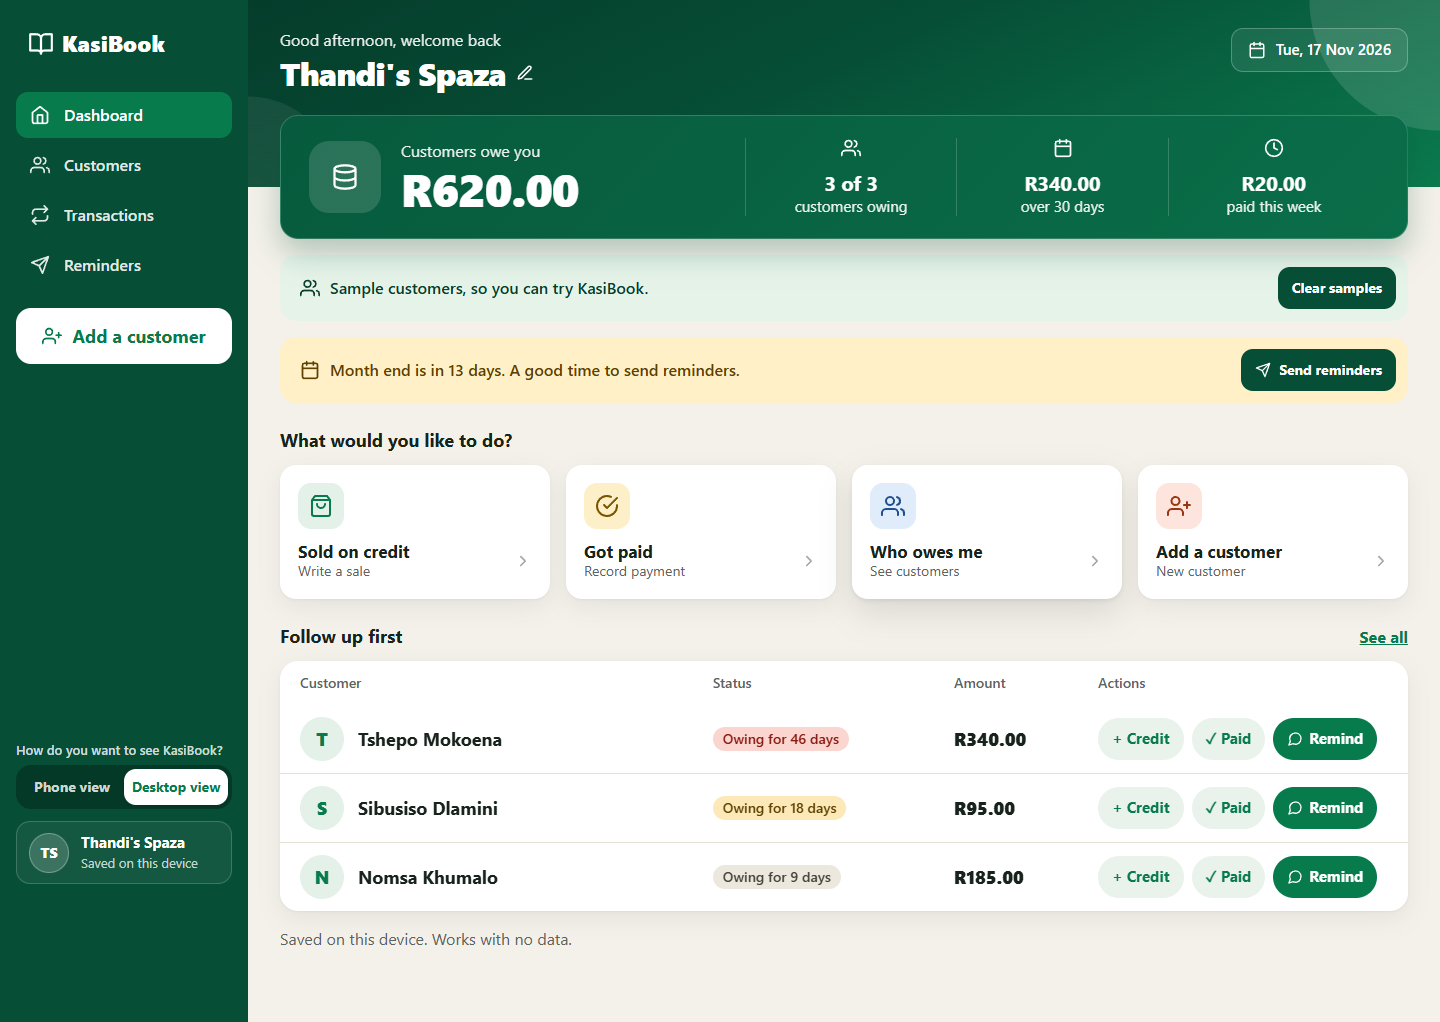
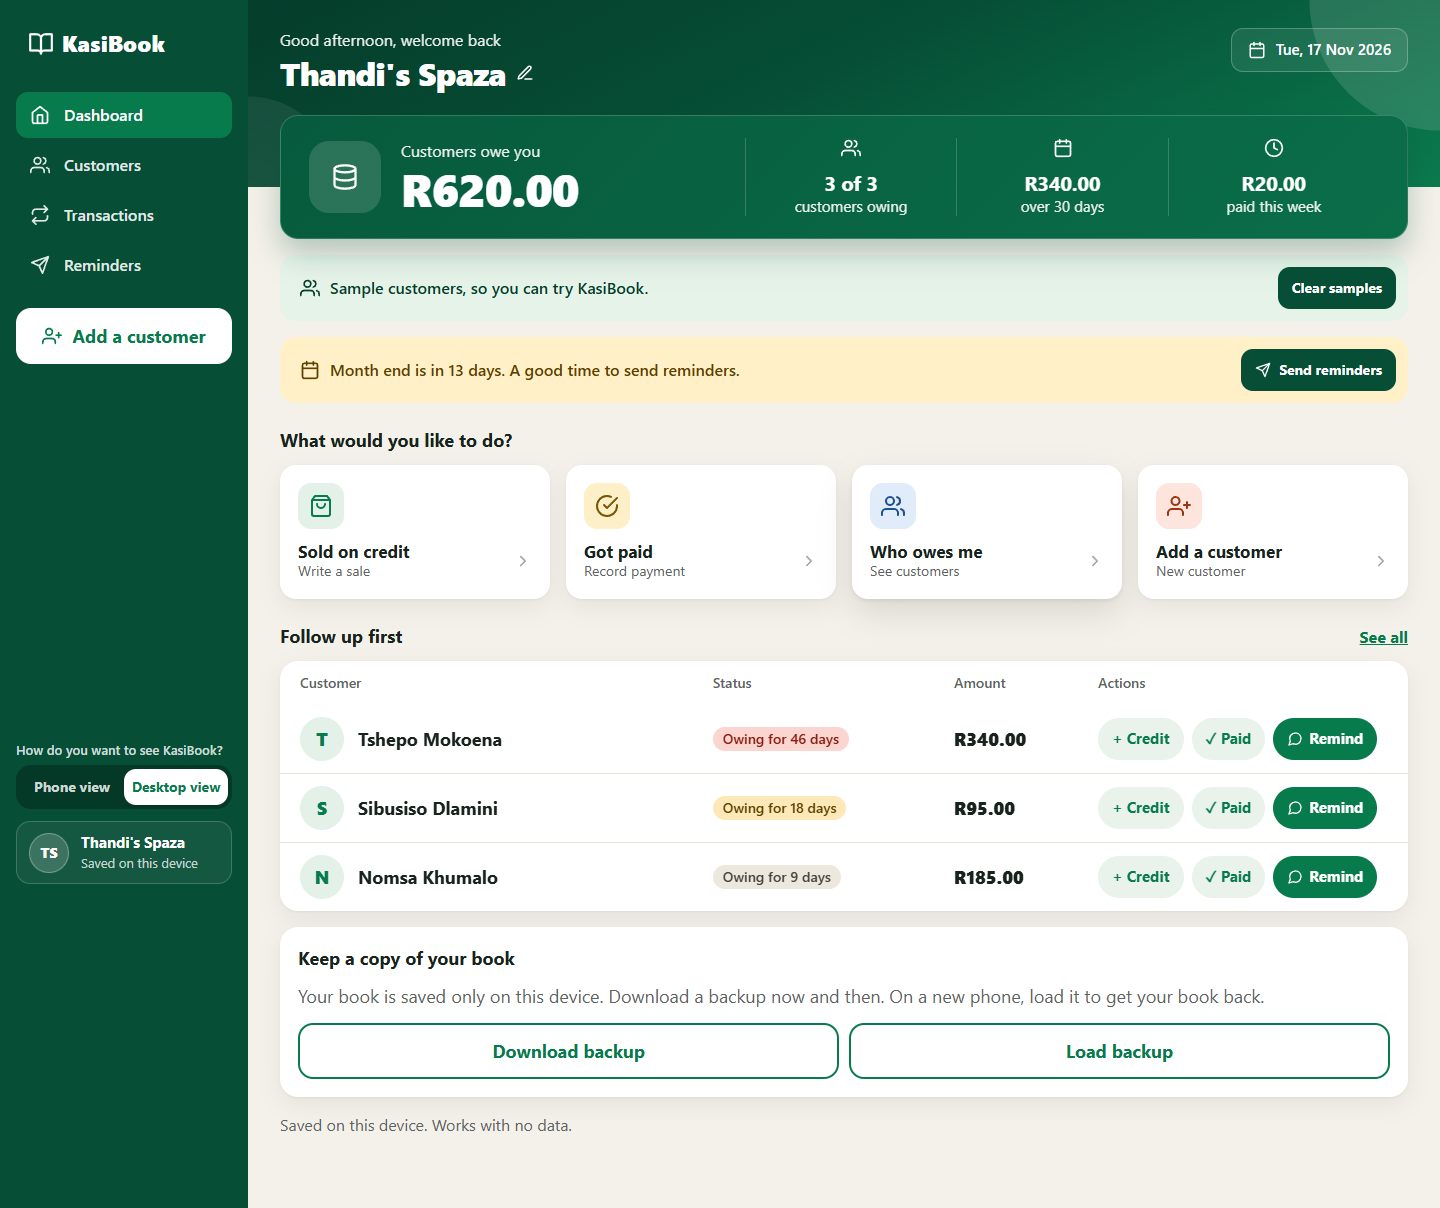
Add backup, paper-book balances, own prices and today's totals

Changed region(s): [[0.0, 0.0303, 1.0, 0.9403], [0.0, 0.6067, 0.1562, 0.7886], [0.0, 0.819, 0.125, 0.8493]]

diff --git a/index.html b/index.html
@@ -54,6 +54,7 @@ button, a { -webkit-tap-highlight-color: transparent; }
 .me { flex: none; display: grid; place-items: center; width: 40px; height: 40px; border: 1px solid rgba(255, 255, 255, .3); border-radius: 50%; background: rgba(255, 255, 255, .16); color: #fff; font-size: 14px; font-weight: 800; cursor: pointer; }
 .date { display: none; }
 .hero { margin-top: 14px; padding: 16px; border: 1px solid rgba(255, 255, 255, .16); border-radius: 18px; background: rgba(3, 40, 28, .42); }
+.hero > .kpis:first-child { margin: 0; padding: 0; border: 0; }
 .hero-main { display: flex; align-items: center; gap: 14px; }
 .hero-main .total { margin: 0; font-size: 38px; }
 .coin { flex: none; display: grid; place-items: center; width: 52px; height: 52px; border-radius: 16px; background: rgba(255, 255, 255, .14); }
@@ -213,6 +214,7 @@ body.wide { padding: 0; background: var(--bg); }
 .main .coin { width: 72px; height: 72px; border-radius: 20px; }
 .main .kpis { flex: 2; margin: 0; padding: 0; border: 0; }
 .main .kpis p { border-left: 1px solid rgba(255, 255, 255, .18); }
+.main .hero > .kpis:first-child p:first-child { border-left: 0; }
 .main .kpis strong { margin-top: 4px; font-size: 20px; }
 .main .kpis span { font-size: 15px; }
 .main .banner { padding: 12px 12px 12px 20px; font-size: 16px; }
@@ -301,6 +303,16 @@ const paidSince = (customers, days, now = Date.now()) =>
 // The last three named items a customer bought, newest first.
 const recentItems = (customer) => customer.entries.filter((entry) => entry.n).slice(-3).reverse().map((entry) => entry.n).join(" · ");
 
+// A day as "2026-11-17", the format date boxes use, in local time.
+const isoDay = (t = Date.now()) => new Date(t).toLocaleDateString("en-CA");
+
+// "2026-11-03" from a date box -> midday that day. Must be a real date, from 2000 on, and not in the future.
+function parseDay(text, now = Date.now()) {
+  const m = /^(\d{4})-(\d{2})-(\d{2})$/.exec(text);
+  const t = m && new Date(+m[1], m[2] - 1, +m[3], 12).getTime();
+  return m && new Date(t).getDate() === +m[3] && +m[1] >= 2000 && t - DAY / 2 <= now ? Math.min(t, now) : null;
+}
+
 const daysToMonthEnd = (now = new Date()) => new Date(now.getFullYear(), now.getMonth() + 1, 0).getDate() - now.getDate();
 
 // Payments settle the oldest sales first. Returns the age of the oldest unpaid sale.
@@ -368,6 +380,21 @@ function load() {
   return null;
 }
 
+// A backup file comes from outside the app, so every field is checked and capped, like a statement link.
+function checkBook(data) {
+  if (!data || typeof data.shop !== "string" || !Array.isArray(data.customers)) return null;
+  const ids = new Set();
+  const customers = data.customers.filter((c) => c && typeof c.name === "string" && c.name.trim() && Array.isArray(c.entries)).map((c) => {
+    const id = typeof c.id === "string" && c.id && !ids.has(c.id) ? c.id.slice(0, 40) : newId();
+    ids.add(id);
+    return { id, name: c.name.slice(0, 40), phone: typeof c.phone === "string" ? c.phone.slice(0, 20) : "", ...(c.sample === true && { sample: true }),
+      entries: c.entries.filter((e) => e && Number.isFinite(e.t) && Number.isInteger(e.c) && e.c !== 0)
+        .map((e) => ({ t: e.t, c: clampCents(e.c), ...(typeof e.n === "string" && e.n && { n: e.n.slice(0, 40) }) })) };
+  });
+  const prices = ITEMS.filter(([, name]) => Number.isInteger(data.prices?.[name]) && data.prices[name] > 0 && data.prices[name] <= MAX_CENTS);
+  return { shop: data.shop.slice(0, 40) || "My Spaza", customers, ...(prices.length && { prices: Object.fromEntries(prices.map(([, name]) => [name, data.prices[name]])) }) };
+}
+
 function save() {
   try {
     localStorage.setItem(STORE, JSON.stringify(book));
@@ -418,6 +445,8 @@ const ICONS = {
 
 // One-tap items. The prices are examples only: every shop sets its own, and any amount can be typed.
 const ITEMS = [["🍞", "Bread", 1800], ["🌽", "Maize meal", 4200], ["🥛", "Milk", 3400], ["📱", "Airtime", 2000], ["⚡", "Electricity", 5000], ["🛢", "Cooking oil", 3800]];
+// The shop's own price for an item, or the example price until it sets one.
+const price = (name, cents) => book.prices?.[name] ?? cents;
 
 function icon(name, size = 24) {
   const svg = document.createElementNS("http://www.w3.org/2000/svg", "svg");
@@ -490,6 +519,9 @@ function toast(text, undo) {
   clearTimeout(toastTimer);
   toastTimer = setTimeout(() => { box.hidden = true; }, 7000);
 }
+
+// One of the small numbers in the green money card.
+const kpi = (iconName, value, label) => el("p", {}, icon(iconName, 20), el("strong", {}, value), el("span", {}, label));
 
 const dateText = (t) => new Date(t).toLocaleDateString("en-ZA", { day: "numeric", month: "short", year: "numeric" });
 
@@ -579,18 +611,55 @@ function customerForm(customer) {
   openForm(customer ? "Change customer" : "Add a customer", [
     { id: "customer-name", label: "Name", value: customer?.name, attrs: { maxlength: 40 } },
     { id: "customer-phone", label: "WhatsApp number (optional)", value: customer?.phone, attrs: { inputmode: "tel", placeholder: "082 123 4567" } },
-  ], (name, phone) => {
+    // A new customer may already owe money in the paper book. Only asked when adding.
+    ...(customer ? [] : [
+      { id: "customer-owes", label: "Already owes you? (from your paper book)", attrs: { inputmode: "decimal", placeholder: "For example 300" } },
+      { id: "customer-since", label: "Owing since", value: isoDay(), attrs: { type: "date", max: isoDay() } }]),
+  ], (name, phone, owes, since) => {
     if (!name) return "Please type the customer's name.";
     if (phone && !waNumber(phone)) return "Use a South African cell number, like 082 123 4567.";
+    const opening = owes ? parseCents(owes) : 0;
+    if (opening === null) return "Type what they already owe in rands, for example 300.";
+    const t = opening && parseDay(since);
+    if (opening && !t) return "Pick the day they started owing. It cannot be in the future.";
     if (customer) Object.assign(customer, { name, phone, sample: false });
     else {
-      const added = { id: newId(), name, phone, entries: [] };
+      const added = { id: newId(), name, phone, entries: opening ? [{ t, c: opening, n: "From paper book" }] : [] };
       book.customers.push(added);
       mode = "sale";
       location.hash = "c=" + added.id;
     }
     save();
   });
+}
+
+function priceForm() {
+  openForm("Your prices", ITEMS.map(([emoji, name, cents], i) => ({ id: "price-" + i, label: `${emoji} ${name} (rands)`, value: String(price(name, cents) / 100), attrs: { inputmode: "decimal" } })), (...values) => {
+    const cents = values.map(parseCents);
+    const bad = cents.indexOf(null);
+    if (bad >= 0) return `Type a price for ${ITEMS[bad][1]}, for example 18.50`;
+    book.prices = Object.fromEntries(ITEMS.map(([, name], i) => [name, cents[i]]));
+    save();
+  });
+}
+
+function downloadBackup() {
+  const url = URL.createObjectURL(new Blob([JSON.stringify(book)], { type: "application/json" }));
+  el("a", { href: url, download: `kasibook-backup-${isoDay()}.json` }).click();
+  setTimeout(() => URL.revokeObjectURL(url), 1000);
+  toast("Backup saved in your Downloads. Send it to yourself on WhatsApp to keep it safe.");
+}
+
+async function loadBackup(file) {
+  let loaded = null;
+  try { if (file.size < 5e6) loaded = checkBook(JSON.parse(await file.text())); } catch { /* not a JSON file: said below */ }
+  if (!loaded) return toast("That file is not a KasiBook backup.");
+  if (!confirm(`Replace the book on this device with the backup of ${loaded.shop} (${loaded.customers.length} customers)?`)) return;
+  const before = book;
+  book = loaded;
+  save();
+  render();
+  toast("Backup loaded", () => { book = before; save(); render(); });
 }
 
 function record(customer, cents, error, item) {
@@ -676,7 +745,7 @@ function homeScreen() {
   const followUp = [...owing].sort((a, b) => daysOwing(b) - daysOwing(a)).slice(0, 3);
   const left = daysToMonthEnd();
   const hour = new Date().getHours();
-  const kpi = (iconName, value, label) => el("p", {}, icon(iconName, 20), el("strong", {}, value), el("span", {}, label));
+  const file = el("input", { type: "file", accept: ".json,application/json", hidden: true, onchange: () => file.files[0] && loadBackup(file.files[0]) });
   const tile = (target, iconName, tone, title, text) =>
     el(typeof target === "string" ? "a" : "button", typeof target === "string" ? { class: "tile", href: target } : { class: "tile", onclick: target },
       el("span", { class: "bubble " + tone }, icon(iconName)),
@@ -714,6 +783,13 @@ function homeScreen() {
       el("div", { class: "section" }, el("h2", {}, "Follow up first"), el("a", { href: "#list" }, "See all")),
       el("ul", { class: "list compact" }, tableHead(), followUp.map((customer) => customerRow(customer)))],
     book.customers.length === 0 && emptyState("Your book is empty", "Start by adding your first customer. Then record what they buy on credit.", addButton("Add your first customer")),
+    el("section", { class: "card" },
+      el("h2", {}, "Keep a copy of your book"),
+      el("p", { class: "empty", style: "margin-bottom:14px" }, "Your book is saved only on this device. Download a backup now and then. On a new phone, load it to get your book back."),
+      el("div", { class: "pair" },
+        el("button", { class: "btn", onclick: downloadBackup }, "Download backup"),
+        el("button", { class: "btn", onclick: () => file.click() }, "Load backup")),
+      file),
     el("p", { class: "note", style: "margin-bottom:24px" }, "Saved on this device. Works with no data."));
 }
 
@@ -758,12 +834,19 @@ function listScreen(intent) {
 
 // Every sale and payment in the book, newest first.
 function transactionsScreen() {
-  const entries = book.customers.flatMap((customer) => customer.entries.map((entry) => ({ ...entry, customer }))).sort((a, b) => b.t - a.t).slice(0, 100);
+  const all = book.customers.flatMap((customer) => customer.entries.map((entry) => ({ ...entry, customer }))).sort((a, b) => b.t - a.t);
+  const entries = all.slice(0, 100);
+  const today = all.filter((entry) => entry.t >= new Date().setHours(0, 0, 0, 0));
+  const sum = (sign) => today.reduce((total, entry) => total + (Math.sign(entry.c) === sign ? Math.abs(entry.c) : 0), 0);
   return el("div", {},
     el("header", { class: "top" },
       el("a", { class: "back", href: "#" }, icon("left", 20), "Home"),
       el("h1", { tabindex: "-1" }, "Transactions"),
-      el("p", { class: "label", style: "margin-top:6px" }, "Every sale and payment, newest first.")),
+      el("p", { class: "label", style: "margin-top:6px" }, "Every sale and payment, newest first."),
+      el("div", { class: "hero" }, el("div", { class: "kpis" },
+        kpi("bag", rand(sum(1)), "sold on credit today"),
+        kpi("check", rand(sum(-1)), "paid back today"),
+        kpi("repeat", String(today.length), "entries today")))),
     entries.length
       ? el("section", { class: "card" }, el("ul", { class: "history" }, entries.map((entry) => el("li", {},
           el("span", {}, `${dateText(entry.t)} \u00b7 `, el("a", { href: "#c=" + entry.customer.id, style: "color:var(--green);font-weight:700" }, entry.customer.name), ` \u00b7 ${entry.c > 0 ? entry.n || "Bought on credit" : "Paid"}`),
@@ -798,10 +881,10 @@ function customerScreen(customer) {
     el("section", { class: "card" },
       el("div", { class: "tabs" }, tab("sale", "Sold on credit"), tab("paid", "Got paid", owed <= 0)),
       !paying && [
-        el("h2", {}, "What did they buy?"),
+        el("div", { class: "head" }, el("h2", {}, "What did they buy?"), el("button", { class: "link", onclick: priceForm }, "Change prices")),
         el("div", { class: "items" }, ITEMS.map(([emoji, name, cents]) =>
-          el("button", { class: "item", onclick: () => record(customer, cents, error, name) },
-            el("span", { "aria-hidden": "true" }, emoji), name, el("small", {}, "R" + cents / 100))))],
+          el("button", { class: "item", onclick: () => record(customer, price(name, cents), error, name) },
+            el("span", { "aria-hidden": "true" }, emoji), name, el("small", {}, rand(price(name, cents))))))],
       el("h2", {}, paying ? "How much did they pay?" : "Or tap an amount"),
       el("div", { class: "chips" }, [10, 20, 50, 100].map((rands) =>
         el("button", { class: "chip", onclick: () => record(customer, sign * rands * 100, error) }, (paying ? "R" : "+R") + rands))),
@@ -894,6 +977,9 @@ if (location.search === "?test") {
   console.assert(paidSince([sipho], 7, 12 * DAY) === 5000 && paidSince([sipho], 7, 30 * DAY) === 0, "paidSince");
   console.assert(recentItems({ entries: [{ c: 1, n: "Bread" }, { c: 1 }, { c: 1, n: "Milk" }] }) === "Milk · Bread", "recentItems");
   console.assert(daysToMonthEnd(new Date(2026, 10, 17)) === 13, "daysToMonthEnd");
+  console.assert(parseDay("2026-11-03", Date.parse("2026-11-17")) === new Date(2026, 10, 3, 12).getTime() && parseDay("2026-02-31") === null && parseDay("2999-01-01") === null && parseDay("") === null, "parseDay");
+  const restored = checkBook({ shop: "X", customers: [{ id: "a", name: "Sipho", entries: [{ t: 1, c: 5e12 }, { t: "bad", c: 1 }] }, { id: "a", name: "Lindi", entries: [] }, { name: 7 }], prices: { Bread: 2000, Milk: -1 } });
+  console.assert(checkBook({}) === null && restored.customers.length === 2 && restored.customers[0].entries.length === 1 && restored.customers[0].entries[0].c === MAX_CENTS && restored.customers[1].id !== "a" && restored.prices.Bread === 2000 && !("Milk" in restored.prices), "checkBook");
   console.log("KasiBook self-check finished");
 }
 </script>

diff --git a/README.md b/README.md
@@ -50,7 +50,7 @@ Tap **Clear samples** at the top of the home screen when you are ready to start 
 - **Statements with no server.** A customer's statement is packed into the link itself. Opening the link unpacks it on the customer's phone.
 - **WhatsApp with no API.** Reminders use an ordinary `wa.me` link. Local numbers such as `082 123 4567` are converted to the international format WhatsApp needs.
 - **Money is exact.** Amounts are stored as whole cents, so totals never drift.
-- **Example prices.** The prices on the item buttons are examples for the demo. Every shop charges its own prices, and any amount can be typed.
+- **Example prices.** The prices on the item buttons are examples for the demo. A shop sets its own with "Change prices", and any amount can be typed.
 
 | File | Job |
 |---|---|
@@ -72,7 +72,7 @@ Tap **Clear samples** at the top of the home screen when you are ready to start 
 
 ## Limits and what is next
 
-- The book lives on one phone. A backup and a move-to-new-phone option come next.
+- The book lives on one phone. "Download backup" saves a copy as a file, and "Load backup" brings it back on a new phone. Automatic backup comes next.
 - Statement links can be read by anyone who has the link, so they hold only the customer's name, the shop's name and the last 12 entries.
 - Next: more languages, pay-day reminders, and using a shop's KasiBook history as proof of trade when asking wholesalers for stock on credit.
 
